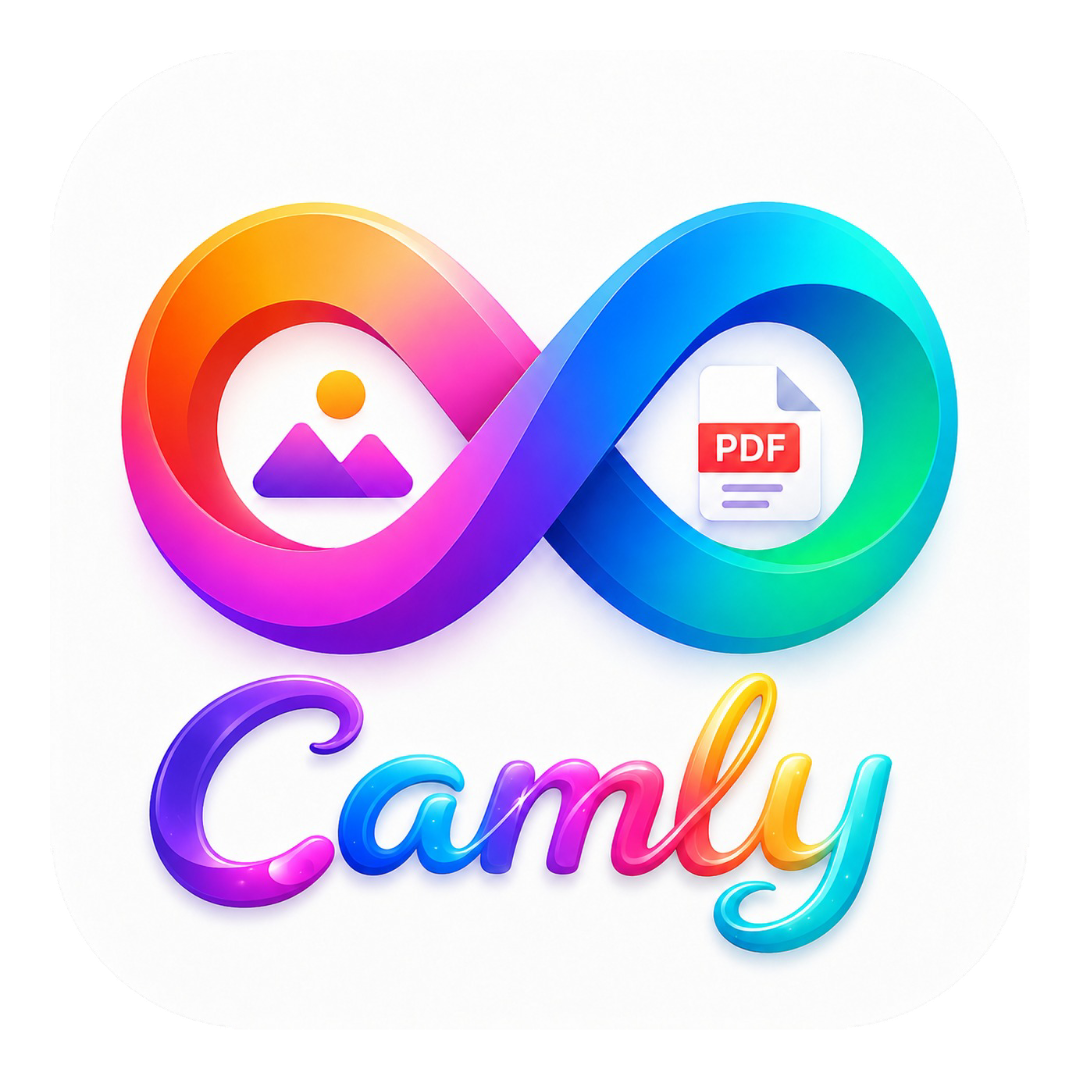
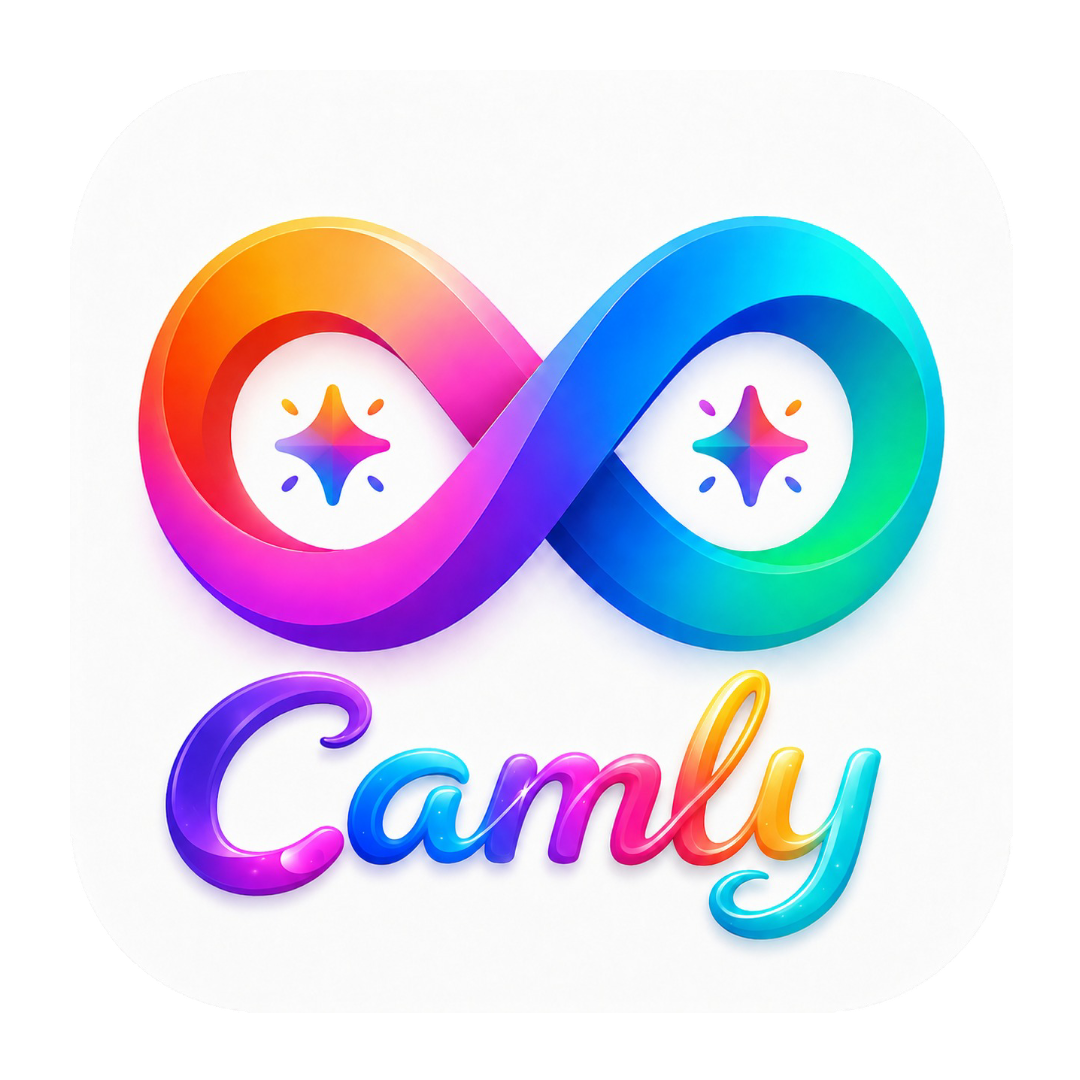
In calculator download report, make branding section more beautiful and

diff --git a/src/app/page.tsx b/src/app/page.tsx
@@ -11,9 +11,9 @@ import {
   Star, ArrowRight, Scale, HeartPulse, 
   Coins, Milestone, LayoutGrid, Download,
   Calculator as CalcIcon, CalendarDays, Copy,
-  ArrowUpRight, Target, BarChart3, Settings,
+  Target, BarChart3, Settings,
   FileType, GraduationCap, Wallet, UserCheck,
-  CheckCircle2, Clock, User, Camera, Upload, X, Shield,
+  CheckCircle2, Clock, User, Camera, X, Shield,
   Sparkles, Workflow, Pencil, ChevronDown
 } from 'lucide-react';
 import { Button } from "@/components/ui/button";
@@ -26,8 +26,7 @@ import {
   Dialog, 
   DialogContent, 
   DialogHeader, 
-  DialogTitle, 
-  DialogFooter 
+  DialogTitle 
 } from "@/components/ui/dialog";
 import {
   Collapsible,
@@ -275,15 +274,16 @@ function ChronoFlowContent() {
     { name: "Scientific Calculator", href: "/calculator" }
   ];
 
+  const isHumanAge = results && results.years <= 100;
+  const originLabel = isHumanAge ? "DATE OF BIRTH" : "ORIGIN POINT";
+  const targetLabel = isHumanAge ? "TODAY'S DATE" : "TARGET NODE";
+
   return (
     <div className="min-h-screen bg-background text-foreground flex flex-col transition-all duration-700 overflow-x-hidden font-body">
       <script type="application/ld+json" dangerouslySetInnerHTML={{ __html: JSON.stringify(homeSchema) }} />
       
       <Dialog open={!!imageToCrop} onOpenChange={(open) => !open && setImageToCrop(null)}>
         <DialogContent className="sm:max-w-lg bg-transparent border-none shadow-none text-white overflow-hidden p-0 backdrop-blur-md">
-          <DialogHeader className="sr-only">
-            <DialogTitle>Frame Subject Photo</DialogTitle>
-          </DialogHeader>
           <div className="relative h-[450px] w-full bg-transparent rounded-3xl overflow-hidden border border-white/20">
             <Cropper
               image={imageToCrop || ''}
@@ -321,20 +321,20 @@ function ChronoFlowContent() {
       
       <div className="fixed -left-[2000px] top-0 pointer-events-none">
         <div ref={receiptRef} className="w-[480px] bg-white text-black p-10 font-mono border-[6px] border-black relative overflow-hidden">
-          <div className="flex items-center gap-6 mb-8 pb-6 border-b-2 border-black">
-            <Image src="/camly.png" alt="Camly" width={128} height={128} priority className="w-12 h-12 object-contain" />
-            <div className="flex flex-col">
-              <h2 className="text-3xl font-black tracking-tighter uppercase font-roboto-slab leading-none">
+          <div className="flex items-center gap-6 mb-10 pb-8 border-b-4 border-black">
+            <Image src="/camly.png" alt="Camly" width={128} height={128} priority className="w-14 h-14 object-contain shrink-0" />
+            <div className="flex flex-col flex-grow">
+              <h2 className="text-3xl font-black tracking-tighter uppercase font-roboto-slab leading-none whitespace-nowrap">
                 <span className="text-primary">CAMLY</span>
                 <span className="text-black ml-2">CALCULATOR</span>
               </h2>
-              <div className="flex items-center gap-2 mt-1">
-                <p className="text-[10px] font-black text-primary/80">calculator.camly.org</p>
-                <Separator orientation="vertical" className="h-2 bg-black/20" />
-                <p className="text-[8px] font-bold text-black/40 uppercase tracking-widest">camly.org</p>
+              <div className="flex items-center gap-2 mt-1.5">
+                <p className="text-[11px] font-black text-primary/80">calculator.camly.org</p>
+                <Separator orientation="vertical" className="h-2.5 bg-black/20" />
+                <p className="text-[9px] font-bold text-black/40 uppercase tracking-widest">camly.org</p>
               </div>
             </div>
-            <Badge variant="outline" className="ml-auto text-[7px] font-black uppercase tracking-widest border-black text-black px-2 h-5">VERIFIED UNIT</Badge>
+            <Badge variant="outline" className="shrink-0 ml-auto text-[8px] font-black uppercase tracking-widest border-black text-black px-2.5 py-1 whitespace-nowrap">VERIFIED UNIT</Badge>
           </div>
 
           <div className="grid grid-cols-[1fr_auto] gap-8 mb-10 items-center">
@@ -376,13 +376,13 @@ function ChronoFlowContent() {
           <div className="grid grid-cols-2 gap-8 mb-10 border-y-2 border-dashed border-black/20 py-8">
             <div className="space-y-2">
               <span className="text-[10px] font-black uppercase tracking-widest text-primary flex items-center gap-2">
-                <Target className="w-3.5 h-3.5" /> Origin Point
+                <Target className="w-3.5 h-3.5" /> {originLabel}
               </span>
               <div className="text-xl font-black tabular-nums">{fromDate.day}-{fromDate.month}-{fromDate.year}</div>
             </div>
             <div className="space-y-2 text-right border-l-2 border-dashed border-black/10">
               <span className="text-[10px] font-black uppercase tracking-widest text-primary flex items-center justify-end gap-2">
-                Target Node <Globe className="w-3.5 h-3.5" />
+                {targetLabel} <Globe className="w-3.5 h-3.5" />
               </span>
               <div className="text-xl font-black tabular-nums">{toDate.day}-{toDate.month}-{toDate.year}</div>
             </div>
@@ -513,7 +513,7 @@ function ChronoFlowContent() {
       </nav>
 
       <main className="flex-grow container max-w-6xl mx-auto px-4 py-6 md:py-12">
-        <div className="flex flex-col min-[480px]:flex-row items-start gap-6 md:gap-10">
+        <div className="flex flex-col min-[480px]:row items-start gap-6 md:gap-10">
           
           <aside className="w-full shrink-0 space-y-4 min-[480px]:w-[260px] md:w-[300px] lg:w-[340px] min-[480px]:sticky min-[480px]:top-24">
             <div className="glass-card !p-6 shadow-2xl transition-all duration-700 border-black dark:border-white border">
@@ -732,7 +732,7 @@ function ChronoFlowContent() {
 
         <section className="mt-32 space-y-20">
           <div className="text-center space-y-4">
-            <Badge variant="outline" className="border-primary/30 text-primary uppercase tracking-[0.3em] text-[10px] px-6 py-1.5 font-black">Architecture Whitepaper</Badge>
+            <Badge variant="outline" className="border-primary/30 text-primary uppercase tracking-[0.4em] text-[10px] px-6 py-1.5 font-black">Architecture Whitepaper</Badge>
             <h2 className="text-5xl md:text-8xl font-black tracking-tighter leading-none">The Science of <span className="text-primary">Chronology</span></h2>
             <p className="text-muted-foreground max-w-2xl mx-auto text-sm md:text-lg leading-relaxed font-medium">
               We define the global standard for high-fidelity chronological milestones through military-grade synchronization and clinical protocols.